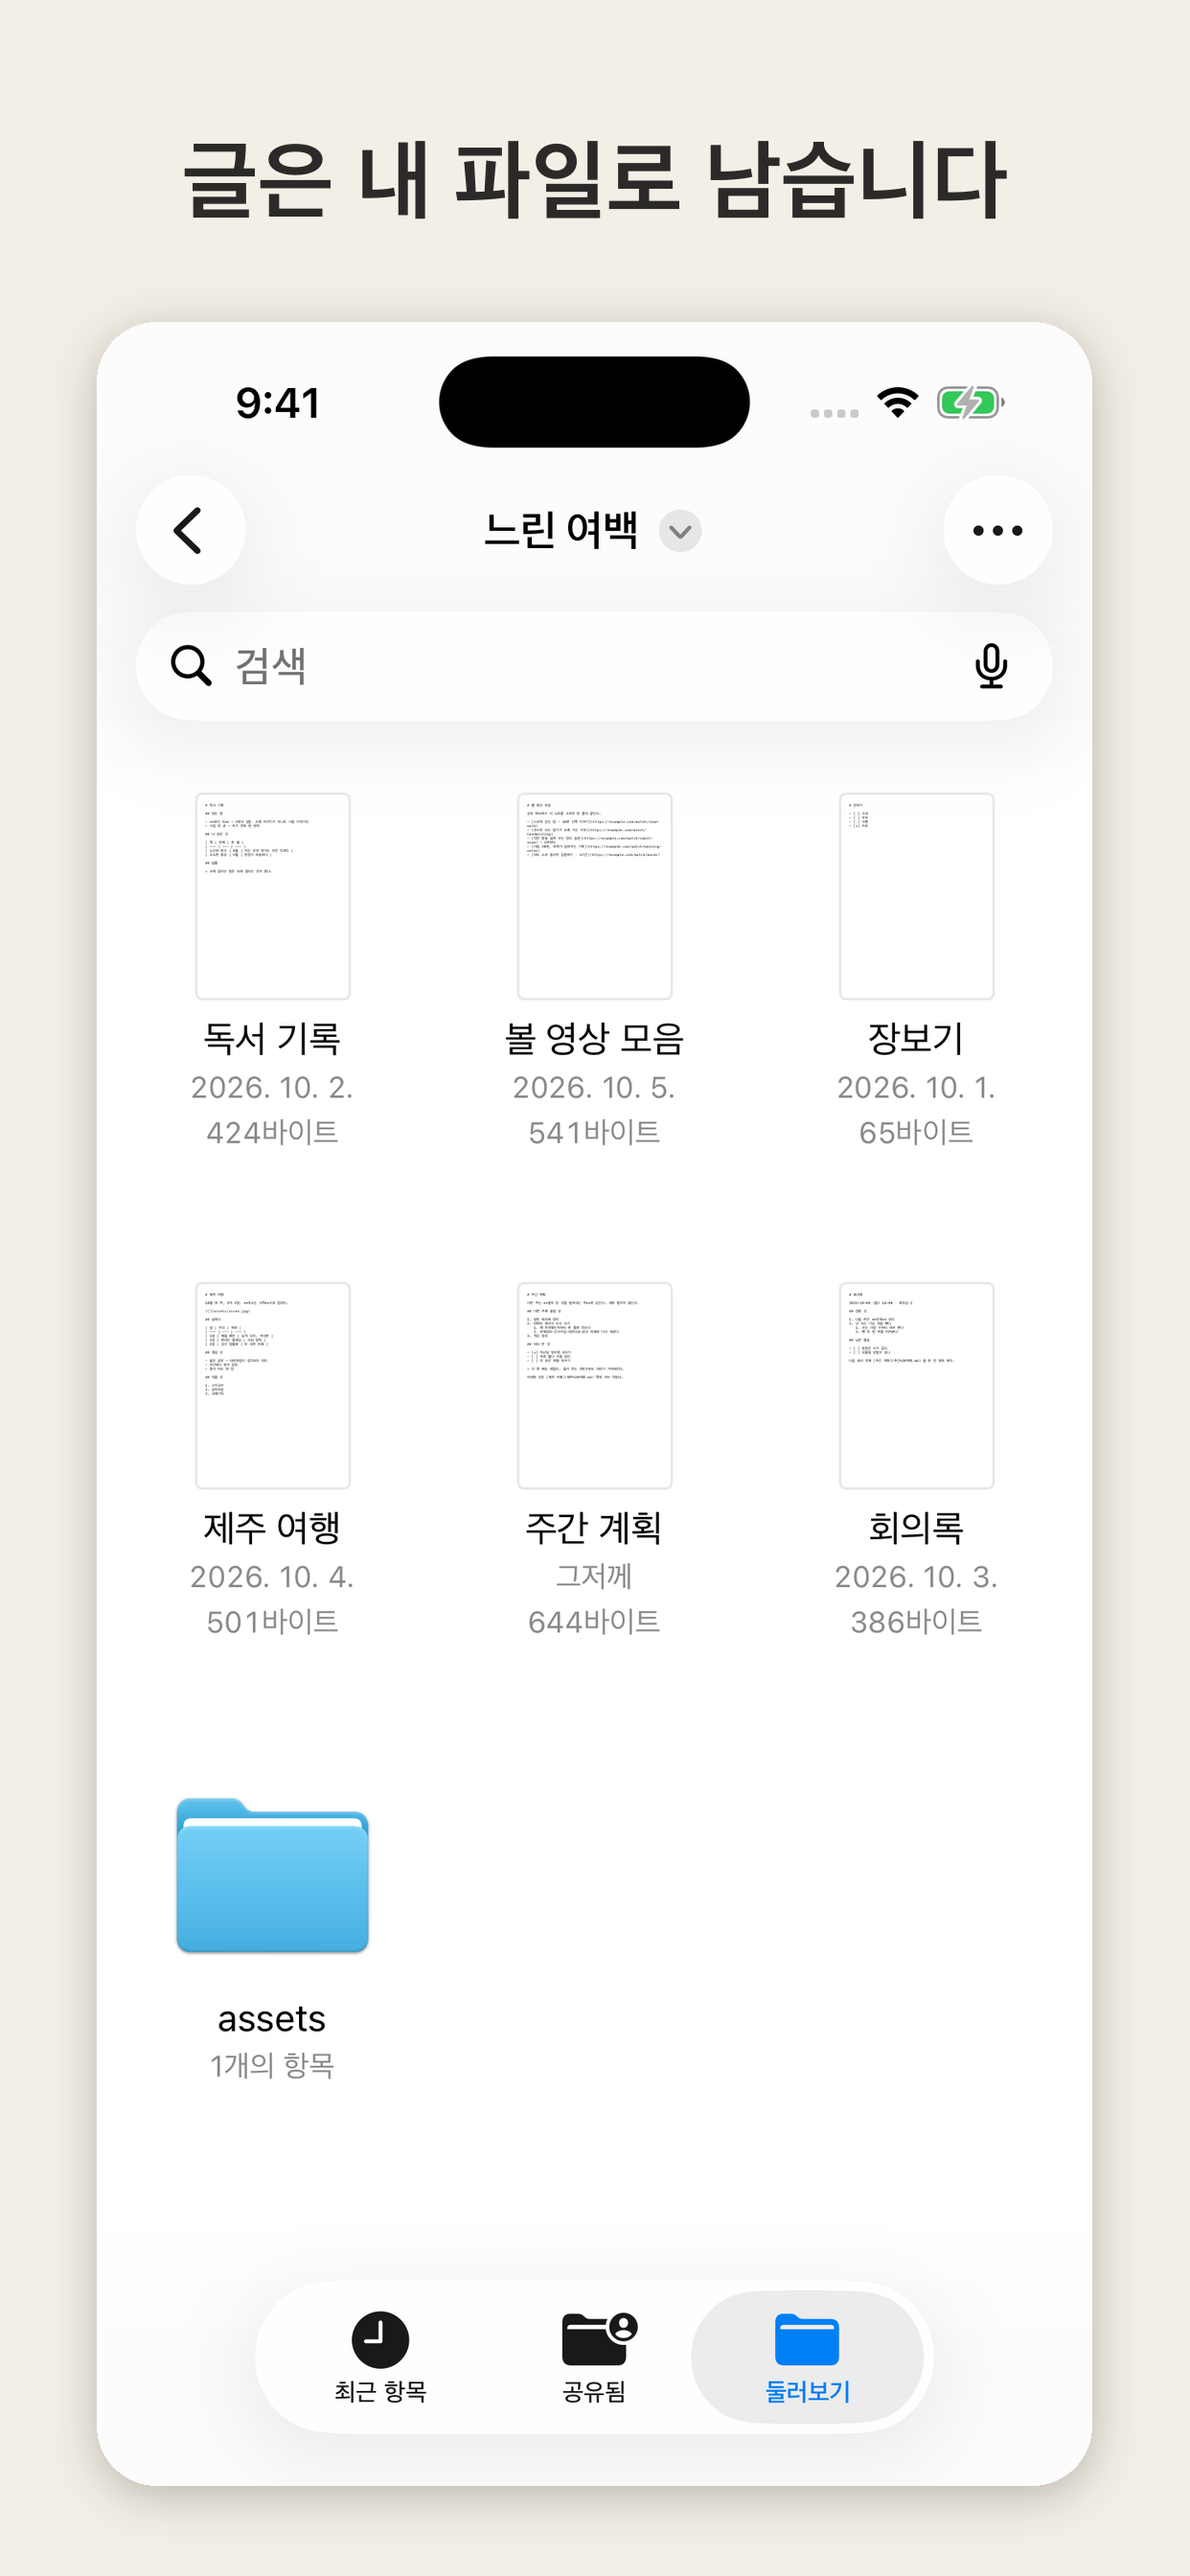
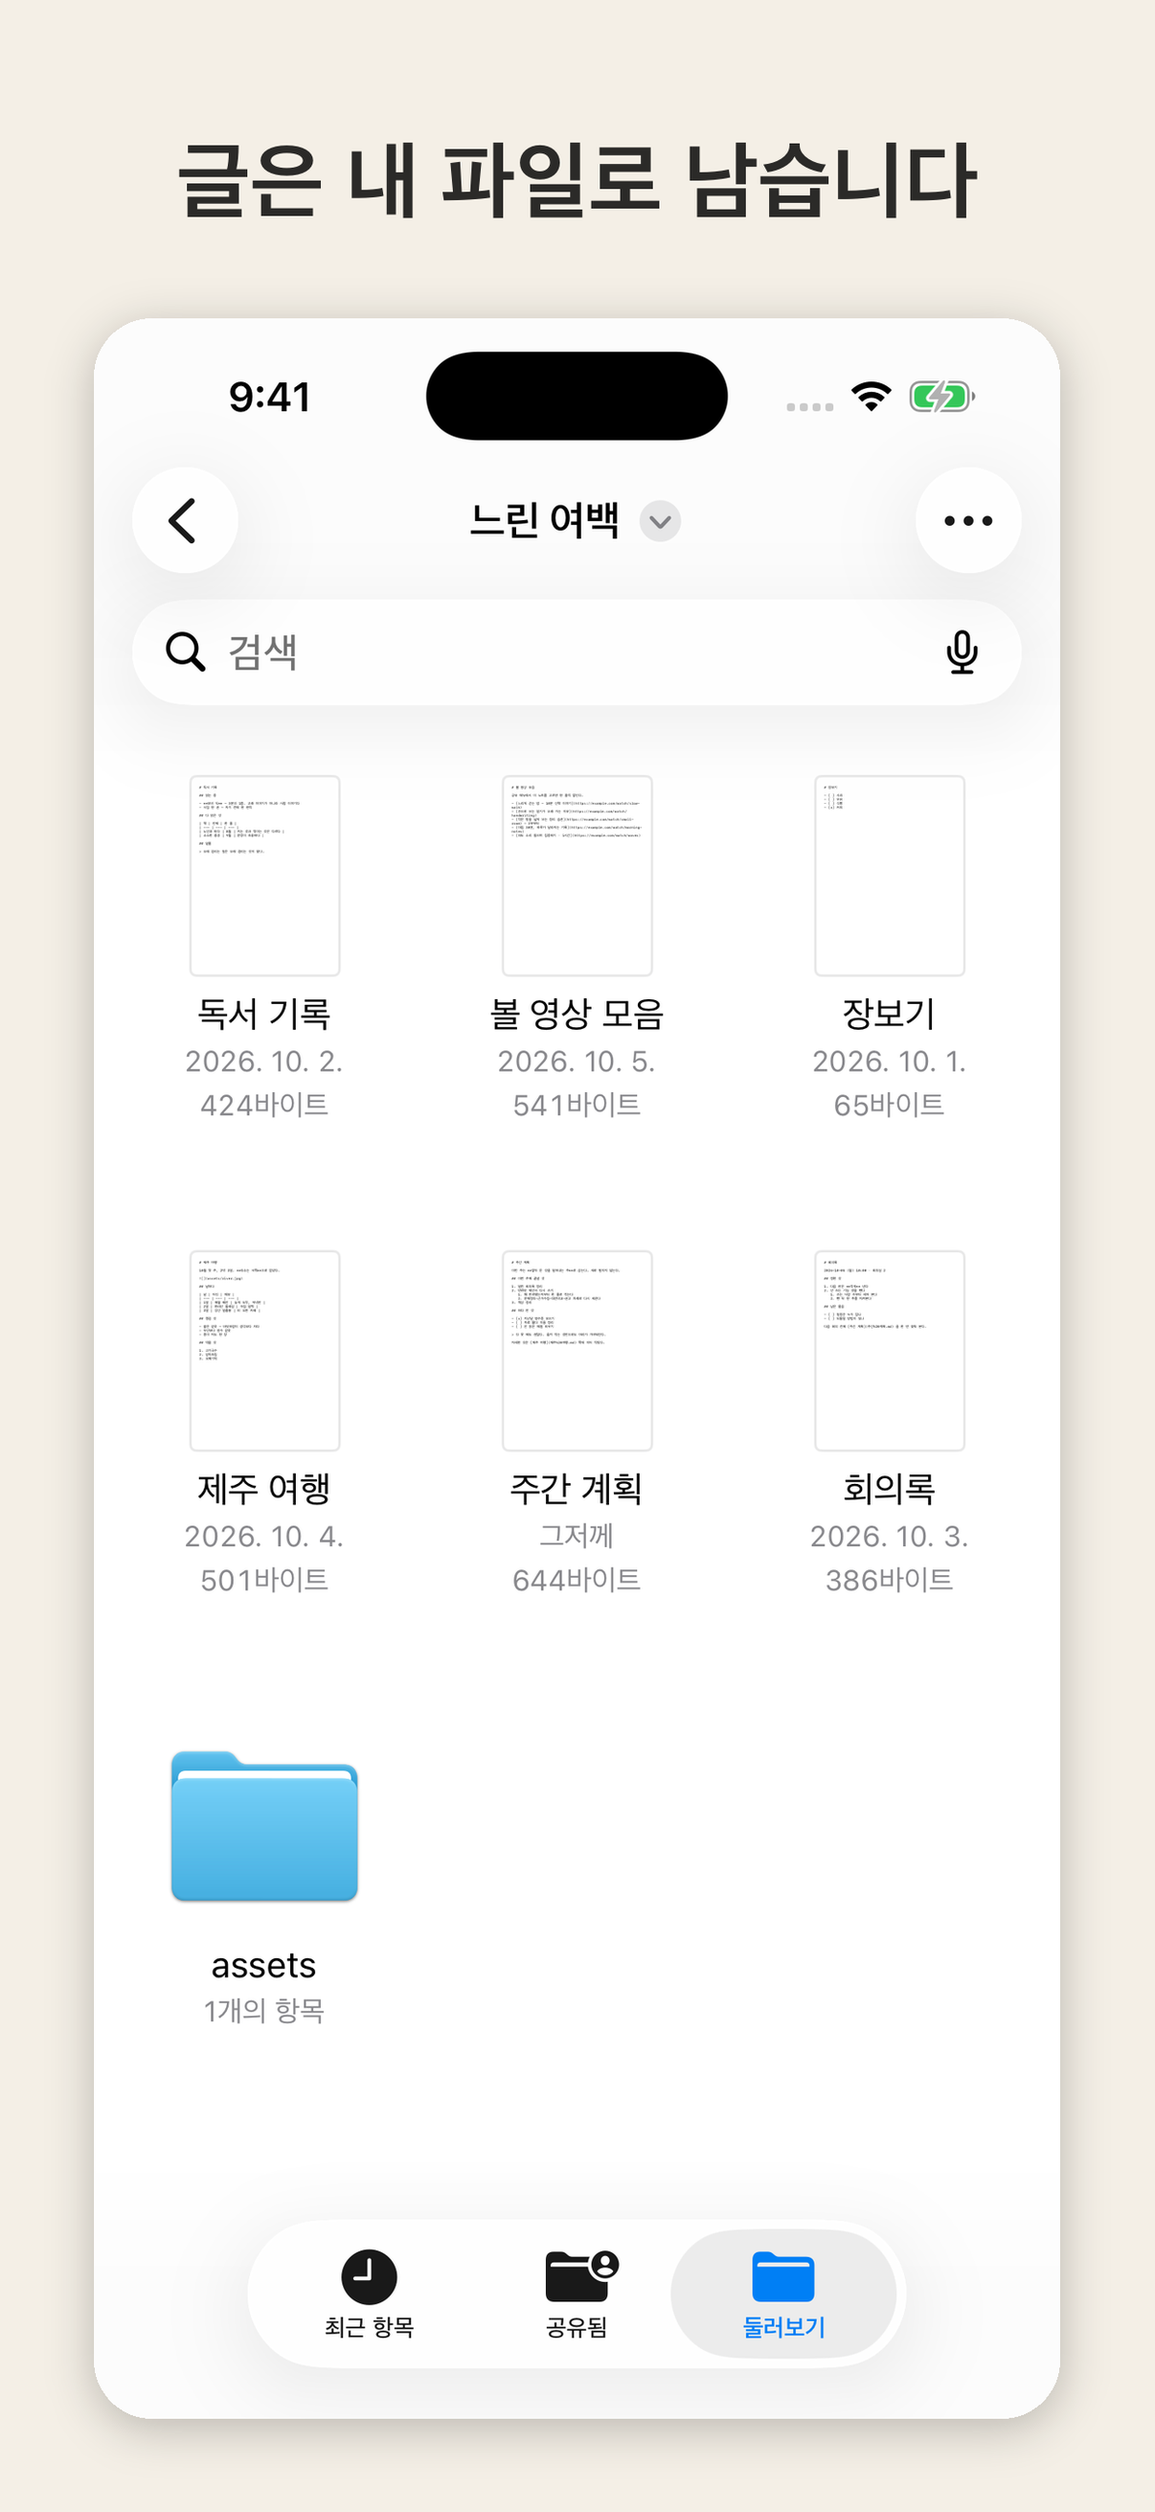
store: 한국어 아이폰 스크린샷을 6.1" (1206 × 2622) 로 — 콘솔 칸이 바뀌었다
비율 그대로 줄이고 위아래 바탕 6픽셀씩. store-shots 도 다음부터 한국어 아이폰을 6.1" 로 짠다.

Claude-Session: https://claude.ai/code/session_01USPUC2xF5WDGgck7f8Sf1U

diff --git a/docs/12-submission.md b/docs/12-submission.md
@@ -176,7 +176,7 @@ https://helpnara.github.io/MD_Management/privacy/
 2. **빌드** 칸에서 **102** 를 고른다 (`1.1.4 (102)`)
 3. 한국어 칸 *이 버전의 새로운 기능* — §6 아래 울타리 (`docs/store/1.1.4-새로운-기능.txt`)
 4. 한국어 **부제** · **키워드** — §1 의 새 값 (안 A · 부제 22/30 · 키워드 95/100)
-5. **스크린샷 갈기** — 아이폰 6.5" 칸 · 아이패드 13" 칸의 것을 **모두 지우고** `docs/store/screenshots/ko/` 의 다섯 장을 1 → 5 차례로 (아이패드는 이번에 **세로**)
+5. **스크린샷 갈기** — 아이폰 **6.1"** 칸 (2026-10-11 칸 크기가 바뀌었다 — 1206 × 2622) · 아이패드 13" 칸의 것을 **모두 지우고** `docs/store/screenshots/ko/` 의 다섯 장을 1 → 5 차례로 (아이패드는 이번에 **세로**)
 6. 오른쪽 위 언어 메뉴 → **English (U.S.)** → *What’s New* (§1-영어) · **Keywords** (97/100) · 스크린샷(아이폰 6.1" · 아이패드 13" 칸에 `docs/store/screenshots/en/` 다섯 장씩) → **저장**
 7. 출시 방식 **자동** · 단계적 출시 끔 · 평점 요약 초기화 고르지 않음 → **심사에 제출**
 

diff --git a/docs/11-store-screenshots.md b/docs/11-store-screenshots.md
@@ -310,7 +310,7 @@ CI 의 macOS 러너에는 13인치 아이패드 · 6.9인치 아이폰 시뮬레
 
 | 칸 | 크기 |
 |---|---|
-| 한국어 아이폰 6.5" | 1242 × 2688 |
+| 한국어 아이폰 6.1" | **1206 × 2622** — 2026-10-11 칸이 6.5" 에서 6.1" 로 바뀌었다 (사용자 화면). 찍은 1242 × 2688 을 비율 그대로 줄이고 위아래 바탕 6픽셀씩 |
 | 영어 아이폰 6.1" | 1206 × 2622 |
 | 아이패드 13" (두 언어 · 세로) | 2064 × 2752 — 한국어 아이패드는 예전 가로 넉 장을 **세로 다섯 장으로 갈아 끼운다** |
 
